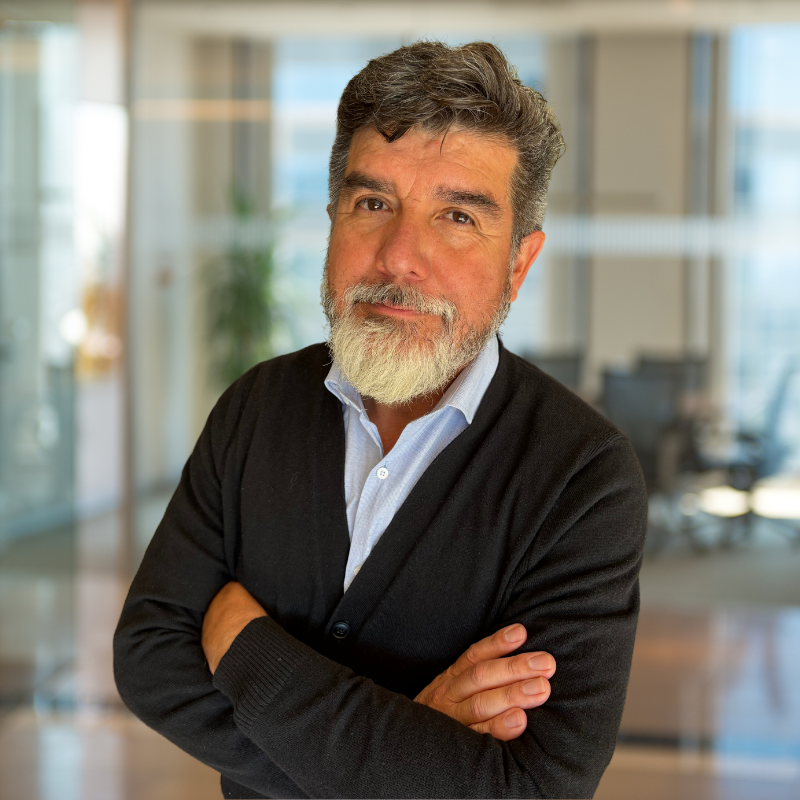
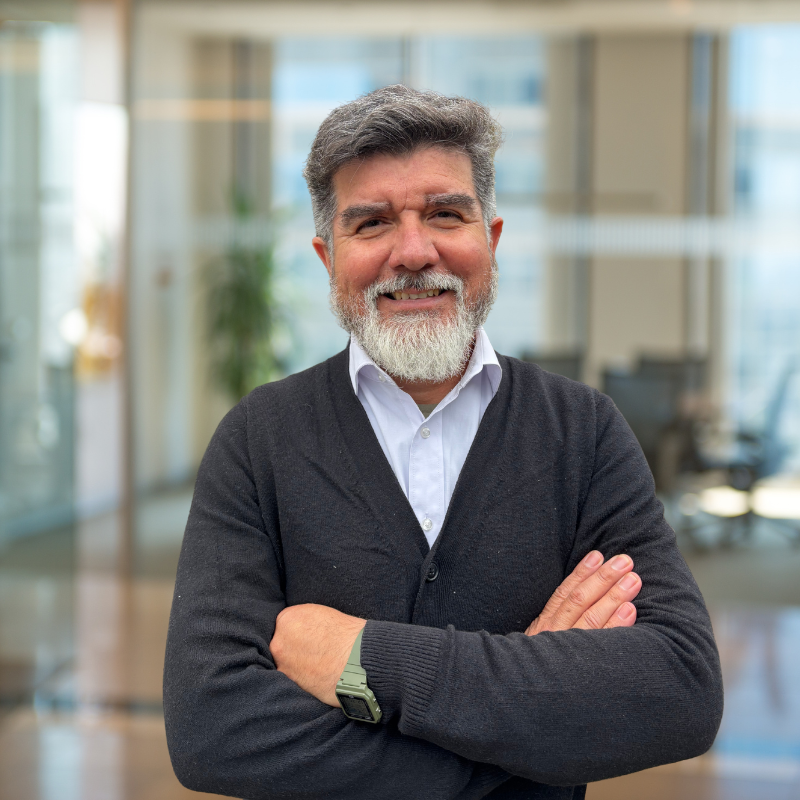
feat: actualizar contenido e imágenes del home

diff --git a/sections/home-faq.tsx b/sections/home-faq.tsx
@@ -7,11 +7,6 @@ export const HOME_FAQ_ITEMS: FaqItem[] = [
       "Es una plataforma que permite gestionar obligaciones legales, evidencias, auditorías y riesgos regulatorios de manera centralizada y trazable.",
   },
   {
-    question: "¿Para qué sirve una matriz legal?",
-    answer:
-      "Identifica todas las normas y requisitos aplicables a una organización según su actividad, permitiendo controlar y demostrar cumplimiento.",
-  },
-  {
     question: "¿Qué empresas necesitan un sistema de compliance?",
     answer:
       "Empresas de minería, construcción, energía, industria, transporte y organizaciones sometidas a auditorías, fiscalizaciones o certificaciones ISO.",
@@ -20,12 +15,6 @@ export const HOME_FAQ_ITEMS: FaqItem[] = [
     question: "¿Cómo ayuda Isolegal en auditorías?",
     answer:
       "Centraliza evidencia, genera trazabilidad y permite demostrar cumplimiento normativo en tiempo real frente a auditorías internas, externas o fiscalizaciones.",
-  },
-  {
-    question:
-      "¿Isolegal administra y mantiene actualizada la matriz legal de sus clientes?",
-    answer:
-      "Sí. En Isolegal administramos permanentemente la matriz legal de nuestros clientes, manteniéndola actualizada frente a cambios normativos, modificaciones de requisitos o derogaciones aplicables. Cuando identificamos un cambio en algún requisito normativo, primero actualizamos la matriz legal del cliente y luego informamos internamente las modificaciones realizadas a través de la plataforma. De esta forma, nuestros clientes cuentan con una matriz legal viva, vigente y gestionada de manera continua.",
   },
   {
     question: "¿La plataforma utiliza inteligencia artificial?",
@@ -37,16 +26,6 @@ export const HOME_FAQ_ITEMS: FaqItem[] = [
       "¿Se puede gestionar cumplimiento ambiental, laboral, SST y de eficiencia energética?",
     answer:
       "Sí. La plataforma permite administrar requisitos ambientales, laborales, de seguridad y salud en el trabajo (SST), eficiencia energética y exigencias de mandantes, adaptados a los distintos rubros de cada organización.",
-  },
-  {
-    question: "¿Isolegal reemplaza las matrices legales en Excel?",
-    answer:
-      "Sí. Centraliza toda la gestión de cumplimiento en una plataforma más eficiente, colaborativa y auditable.",
-  },
-  {
-    question: "¿Puedo gestionar los requisitos de mis mandantes en Isolegal?",
-    answer:
-      "Sí. Isolegal permite incorporar y gestionar los requisitos específicos que exigen tus mandantes —como sistemas de gestión de contratistas u otras exigencias contractuales— dentro de la misma matriz legal, junto con la normativa nacional aplicable.",
   },
 ];
 

diff --git a/sections/home-team/index.tsx b/sections/home-team/index.tsx
@@ -10,8 +10,7 @@ const TEAM_PANELS = [
     id: "equipo-conocimiento",
     title: "Conocimiento",
     paragraphs: [
-      "Isolegal se construye sobre una base normativa creada y mantenida por abogados durante más de 10 años. No partimos desde interpretaciones genéricas: trabajamos con una biblioteca legal robusta —más de 1.300 normas y más de 4.500 artículos— estructurada para reflejar aplicabilidad real en operación. Ese conocimiento se traduce en matrices claras, preguntas guía y criterios consistentes, para que el cumplimiento se gestione con evidencia y no con supuestos.",
-      "Sobre esta base, nuestro asistente de inteligencia artificial, impulsado por Google Gemini, permite interpretar requisitos, orientar la carga de evidencia y resolver dudas en tiempo real, aplicando el mismo criterio experto de la plataforma en el contexto operativo de cada organización.",
+      "Isolegal se construye sobre una base normativa creada y mantenida por abogados durante más de 10 años. No partimos desde interpretaciones genéricas: trabajamos con una biblioteca legal robusta —más de 1.300 normas y más de 4.500 artículos— estructurada para reflejar aplicabilidad real en operación. Ese conocimiento se traduce en matrices claras, preguntas guía y criterios consistentes, para que el cumplimiento se gestione con evidencia y no con suposiciones.",
     ],
     button: "Inicia hoy",
     member: {
@@ -62,11 +61,9 @@ export default function HomeTeam() {
     >
       <div className="container mx-auto px-4! sm:px-8!">
         <div className="mx-auto mb-8 max-w-2xl text-center sm:mb-10">
-          <h2
-            id="home-team-title"
-            className="text-3xl leading-tight font-extrabold sm:text-4xl"
-          >
-            Quiénes somos
+          <Logo width={160} height={40} className="mx-auto" />
+          <h2 id="home-team-title" className="sr-only">
+            Nosotros
           </h2>
           {/*<p className="mt-4 text-base leading-7 text-white/75">
             Conoce al equipo detrás de Isolegal. Un grupo con experiencia en

diff --git a/sections/home-solutions/content.ts b/sections/home-solutions/content.ts
@@ -26,7 +26,7 @@ export const HOME_TOOLS: ToolCard[] = [
       "Convierte la normativa aplicable a tu empresa en Chile en requisitos claros y accionables. Actualizada continuamente por abogados especialistas y con evidencia auditable ante fiscalizaciones y certificaciones ISO.",
     cta: "Conoce Matriz Legal",
     href: "/soluciones/matriz-legal",
-    imageSrc: "/images/features/dashboard-interactivo.png",
+    imageSrc: "/images/dashboard-de-cumplimiento-legal-en-tiempo-real.png",
     imageAlt:
       "Dashboard de Matriz Legal con el cumplimiento general de proyectos",
     accent: "green",
@@ -38,6 +38,8 @@ export const HOME_TOOLS: ToolCard[] = [
       "Asigna actividades de cumplimiento a tus equipos y empresas contratistas, activa notificaciones automáticas y captura evidencia fotográfica y documental verificable en terreno, garantizando trazabilidad total para tus auditorías.",
     cta: "Conoce PULSO",
     href: "/soluciones/pulso",
+    imageSrc: "/images/pulso-asignas-el-programa.png",
+    imageAlt: "PULSO asignas el programa",
     accent: "lime",
     Icon: VerifiedIcon,
   },

diff --git a/sections/home-solutions/index.tsx b/sections/home-solutions/index.tsx
@@ -126,7 +126,7 @@ function MatrixPanel() {
 }
 
 function PulsoPanel() {
-  const evidenceStep = PULSO_HOW_IT_WORKS_STEPS[2];
+  const assignmentStep = PULSO_HOW_IT_WORKS_STEPS[0];
   return (
     <div className="space-y-5 pb-6">
       <p className="text-text/75 max-w-2xl text-[0.8125rem] leading-6 sm:text-sm">
@@ -147,9 +147,9 @@ function PulsoPanel() {
           ))}
         </ol>
         <PlatformImage
-          src={evidenceStep.imageSrc!}
-          alt={evidenceStep.imageAlt}
-          caption="Evidencia lista para auditar"
+          src={assignmentStep.imageSrc!}
+          alt={assignmentStep.imageAlt}
+          caption={assignmentStep.title}
         />
       </div>
       <FeatureList items={PULSO_FEATURES.slice(0, 3)} compact />

diff --git a/app/page.tsx b/app/page.tsx
@@ -4,6 +4,7 @@ import HeadingSection from "@/sections/heading";
 import HomeFaqSection, { HOME_FAQ_ITEMS } from "@/sections/home-faq";
 import HomeSolutions from "@/sections/home-solutions";
 import HomeTeam from "@/sections/home-team";
+import IsolegalRoi from "@/sections/isolegal-roi";
 import RiskCalculatorMainContainer from "@/sections/risk-calculator/risk-calculator-main-container";
 import Testimonials from "@/sections/testimonials";
 import type { Metadata } from "next";
@@ -39,7 +40,7 @@ export default function Home() {
       <HeadingSection />
       <BussinessSection />
       <HomeSolutions />
-      {/* <IsolegalRoi /> */}
+      <IsolegalRoi />
       <HomeTeam />
       {/* <HowIsolegalWorks /> */}
       <Testimonials />

diff --git a/sections/isolegal-roi.tsx b/sections/isolegal-roi.tsx
@@ -1,5 +1,3 @@
-"use client";
-
 import AnimatedCounter from "@/components/AnimatedCounter";
 
 export type IsolegalRoiItem = {
